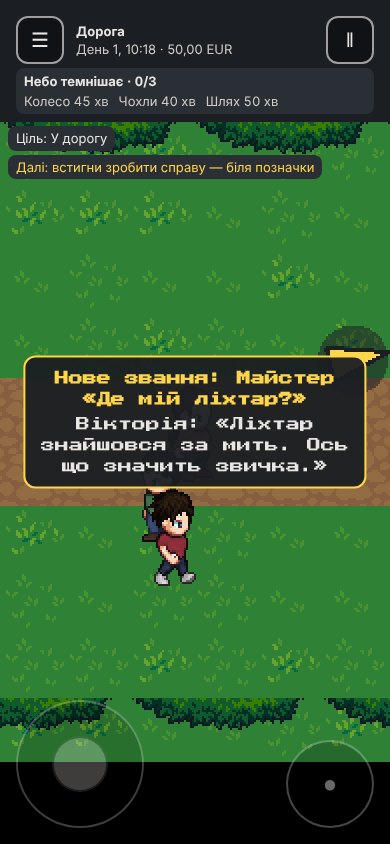
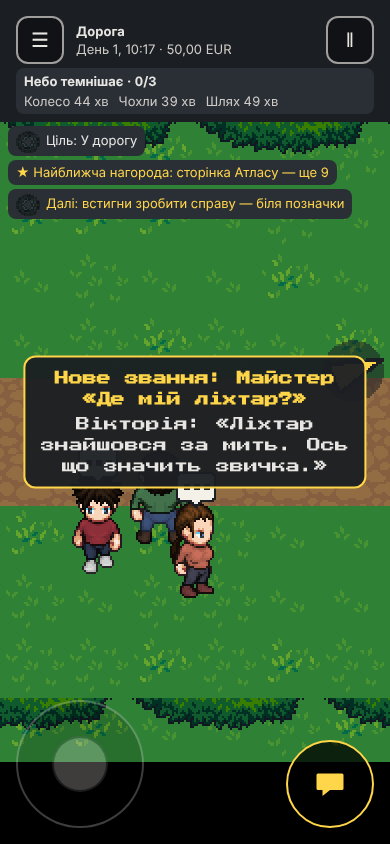
GAME-229: тести (юніт, e2e game-229), фанфара SND-025, підпис game-181 без «над героєм»
Claude-Session: https://claude.ai/code/session_01RoJJJhaZjeur2b1tUo6iMd

diff --git a/tests/e2e/game-229.spec.ts b/tests/e2e/game-229.spec.ts
@@ -1,0 +1,171 @@
+// GAME-229 · «Навички ростуть від дій». День 1 до кінця (ST-005) з дією руками на мапі: розбили ящик у таборі → практика «Майстра» → ранг 1.
+// Кінець дня: СПЕРШУ екран «Що відкрилось» (фанфара), ПОТІМ підсумок дня (категорії з'являються по одній, лічильник росте). Над героєм жодних цифр.
+// Вимкнено в налаштуваннях — екрана немає, навички ростуть так само. Обидві орієнтації (390×844, 844×390) + знімки 9:16, 1:1, 16:9 (G229_SHOTS, типово test-results/g229).
+import { mkdirSync } from 'node:fs';
+import { expect, test, type Locator, type Page } from '@playwright/test';
+import { probe, routeXY, walk } from './chapter-driver';
+import { waitGameReady } from './ready';
+import { heroLabelOk } from '../../src/view/world/hero-label';
+
+test.use({ hasTouch: true, isMobile: true });
+
+const SHOTS = process.env.G229_SHOTS ?? 'test-results/g229';
+const SETTINGS_KEY = 'camplife.settings.v1';
+const VIEWS = [{ side: 'portrait', w: 390, h: 844 }, { side: 'landscape', w: 844, h: 390 }] as const;
+const SHAPES = [{ name: '9x16', w: 390, h: 844 }, { name: '1x1', w: 600, h: 600 }, { name: '16x9', w: 844, h: 475 }] as const;
+interface Core { game: { skills: Record<string, number>; practice: Record<string, number>; campaignEnded: boolean } }
+const core = (page: Page): Promise<Core> => page.evaluate(() => (window as unknown as { __game: { read: () => Core } }).__game.read());
+const sounds = (page: Page): Promise<string[]> => page.evaluate(() => (window as unknown as { __game: { sounds: () => string[] } }).__game.sounds());
+const fx = (page: Page): Promise<{ rewardLast: string; headLabels: string[]; rewards: number }> => page.evaluate(() => JSON.parse(JSON.stringify((window as unknown as { __game: { probe: { fx: unknown } } }).__game.probe.fx)));
+const panel = (page: Page) => page.locator('[data-ui="story"]');
+const levelup = (page: Page) => page.locator('[data-ui="levelup"]');
+const summary = (page: Page) => page.locator('[data-ui="summary"]');
+const shot = async (page: Page, name: string): Promise<void> => { mkdirSync(SHOTS, { recursive: true }); await page.screenshot({ path: `${SHOTS}/${name}.png` }); };
+const press = async (page: Page, loc: Locator): Promise<void> => { await loc.scrollIntoViewIfNeeded(); await loc.tap(); await page.waitForTimeout(400); };
+
+async function open(page: Page, v: { w: number; h: number }, settings: Record<string, unknown> = {}): Promise<string[]> {
+  const errors: string[] = [];
+  page.on('pageerror', (e) => errors.push(e.message));
+  await page.addInitScript(([k, s]) => { try { localStorage.setItem(k as string, JSON.stringify({ textScale: 100, language: 'uk', hintSeen: true, ...(s as object) })); } catch { /* сховища немає */ } }, [SETTINGS_KEY, settings] as const);
+  await page.setViewportSize({ width: v.w, height: v.h });
+  await page.goto('/?seed=2&levelUps=1');   // збірка e2e: екран рангів у старих e2e вимкнено, тут — справжня поведінка
+  await waitGameReady(page);
+  return errors;
+}
+const act = async (page: Page, kind: string, key = ''): Promise<void> => {
+  const b = panel(page).locator(`[data-act="${kind}"][data-key="${key}"]`);
+  if (!(await b.isVisible({ timeout: 5_000 }).catch(() => false))) throw new Error(`крок «${kind} ${key}»: кнопки немає`);
+  await press(page, b);
+  const dlg = panel(page).locator('[data-ui="dialogue"]');
+  for (let i = 0; kind === 'visit' && key === 'loc.road' && i < 6 && await dlg.isVisible({ timeout: 400 }).catch(() => false); i++) await press(page, dlg.locator('[data-act]').last());
+};
+const at = async (page: Page): Promise<[number, number]> => { const p = await probe(page); return [p.playerX, p.playerY]; };
+async function goTo(page: Page, x: number, y: number): Promise<void> {
+  for (let i = 0; i < 5; i++) {
+    await walk(page, routeXY('camp-lake', await at(page), { x, y }));
+    await page.waitForTimeout(250);
+    const [px, py] = await at(page);
+    if (Math.hypot(px - x, py - y) < 14) return;
+  }
+}
+const hit = async (page: Page): Promise<void> => { await page.keyboard.down('KeyE'); await page.waitForTimeout(90); await page.keyboard.up('KeyE'); };
+
+/** День 1 до табору; з дією руками (розбити ящик) між приїздом і кінцем дня. Повертає до кроку перед `q.st-005`. */
+async function playToDayEnd(page: Page, withHands: boolean): Promise<void> {
+  await press(page, page.locator('[data-touch="story"]'));
+  await press(page, panel(page).locator('[data-act="create"]', { hasText: /Авто|Car/ }).first());
+  for (const [k, key] of [['complete', 'q.prologue-home-001'], ['complete', 'q.st-001'], ['complete', 'q.st-002'], ['visit', 'loc.shop'], ['pickup', 'item.tent'], ['pickup', 'item.sleeping-bag'],
+    ['complete', 'q.st-003'], ['visit', 'loc.home'], ['complete', 'q.ch1-home-001'], ['visit', 'loc.road'], ['complete', 'q.st-004'], ['visit', 'loc.camp.lake'], ['talk', 'npc.elise'],
+    ['choose', 'dlg.elise-greeting.hello.c2'], ['continue', ''], ['choose', 'dlg.elise-greeting.spot.c1'], ['continue', ''], ['pickup', 'item.firewood']] as const) await act(page, k, key);
+  if (withHands) {
+    await press(page, panel(page).locator('[data-ui="story-close"]'));
+    expect((await core(page)).game.skills['skill.mechanics'], 'до дії «Майстер» на нулі').toBe(0);
+    await goTo(page, 660, 340);   // ящик за колонкою (680, 340), як у game-228
+    await hit(page);
+    await expect.poll(async () => (await core(page)).game.practice['hand:smash'] ?? 0, { timeout: 5_000 }).toBe(1);
+    await press(page, page.locator('[data-touch="story"]'));
+  }
+}
+
+for (const v of VIEWS) {
+  test(`день з рангом: «Що відкрилось» ПЕРЕД підсумком; фанфара; підсумок розгортається; над героєм без цифр — ${v.side}`, async ({ page }) => {
+    test.setTimeout(240_000);
+    const errors = await open(page, v);
+    await playToDayEnd(page, true);
+
+    // Дія руками вчила: розбивання → «Майстер» (механіка): 12 досвіду, ранг 1 (поріг 10).
+    const c0 = await core(page);
+    expect(c0.game.skills['skill.mechanics']).toBe(12);
+    expect(c0.game.practice['hand:smash']).toBe(1);
+    // Над героєм цифр не було: усе, що намальовано, проходить правило, а нагорода справді була (інакше сторож порожній).
+    const f = await fx(page);
+    expect(f.rewardLast, 'нагорода за день була (проба)').toMatch(/^\+\d+ XP/);
+    for (const l of f.headLabels) expect(heroLabelOk(l), `підпис над героєм «${l}»`).toBe(true);
+
+    await expect(levelup(page)).toHaveCount(0);   // до кінця дня екрана нема: ранги не перебивають гру
+    await act(page, 'complete', 'q.st-005');
+
+    // 1) Спершу «Що відкрилось»; підсумку під ним ще немає.
+    await expect(levelup(page)).toBeVisible();
+    await expect(summary(page)).toHaveCount(0);
+    await expect(levelup(page).locator('h2')).toHaveText('Нові вміння');
+    await expect(levelup(page).locator('h2')).toBeFocused();
+    const items = levelup(page).locator('[data-ui="levelup-item"]');
+    const got = await items.evaluateAll((els) => els.map((e) => `${(e as HTMLElement).dataset.skill}:${(e as HTMLElement).dataset.rank}`));
+    expect(got, 'ранг від дії руками серед нових').toContain('skill.mechanics:1');
+    expect(got.length, 'і ранги від ходів ядра (табір, планування…)').toBeGreaterThan(1);
+    const mech = levelup(page).locator('[data-skill="skill.mechanics"]');
+    await expect(mech).toContainText('Механіка');
+    await expect(mech).toContainText('Той, хто бачить дрібниці');
+    await expect(mech).toContainText('Що відкрилось: Бачиш видимі несправності.');
+    expect((await levelup(page).textContent()) ?? '', 'без цифр досвіду й без ключів без тексту').not.toMatch(/XP|⟦|\+\d/);
+    expect(await sounds(page), 'фанфара через єдиний аудіомодуль').toContain('sfx-fanfare');
+    // Кнопка в межах екрана, ≥ 44 px.
+    const btn = levelup(page).locator('[data-ui="levelup-continue"]');
+    await btn.scrollIntoViewIfNeeded();
+    const r = await btn.boundingBox();
+    expect(r && r.width >= 44 && r.height >= 44 && r.x >= 0 && r.x + r.width <= v.w, `кнопка ${JSON.stringify(r)}`).toBe(true);
+    const top = (): Promise<void> => levelup(page).evaluate((el) => { el.scrollTop = 0; });
+    await top();
+    await shot(page, `levelup-${v.side}`);
+    if (v.side === 'portrait') {
+      for (const s of SHAPES) { await page.setViewportSize({ width: s.w, height: s.h }); await page.waitForTimeout(250); await top(); await shot(page, `levelup-${s.name}`); }
+      await page.setViewportSize({ width: v.w, height: v.h });
+    }
+
+    // 2) «Далі» → підсумок дня. Категорії з'являються по одній: на якомусь кадрі перша вже яскравіша за останню, зрештою — всі повні.
+    await press(page, btn);
+    await expect(levelup(page)).toHaveCount(0);
+    const opac = (): Promise<number[]> => summary(page).locator('.ui-summary-sec').evaluateAll((els) => els.map((e) => Number(getComputedStyle(e).opacity)));
+    let staggered = false;
+    for (let i = 0; i < 40 && !staggered; i++) { const o = await opac(); staggered = o.length > 3 && (o[0] as number) > (o[o.length - 1] as number); if (!staggered) await page.waitForTimeout(25); }
+    await expect(summary(page)).toBeVisible();
+    await expect(summary(page).locator('h2')).toHaveText('Підсумок дня 1');
+    expect(staggered, 'категорії розгортаються по одній (перша раніше за останню)').toBe(true);
+    // Лічильник нагороди росте (від 0 до кінцевого) і не спадає; текст у DOM — кінцевий одразу.
+    const xp = Number(await summary(page).locator('[data-ui="summary-reward"]').getAttribute('data-xp'));
+    expect(xp).toBeGreaterThan(0);
+    await expect(summary(page).locator('[data-ui="count-xp"]')).toHaveText(String(xp));
+    const tick = (): Promise<number> => summary(page).locator('[data-ui="count-xp"]').evaluate((el) => Number(getComputedStyle(el, '::after').getPropertyValue('--n')));
+    const seen: number[] = [];
+    for (let i = 0; i < 60; i++) { seen.push(await tick()); if (seen[seen.length - 1] === xp) break; await page.waitForTimeout(30); }
+    expect(seen[seen.length - 1], 'лічильник дійшов до кінцевого числа').toBe(xp);
+    for (let i = 1; i < seen.length; i++) expect(seen[i] as number, `лічильник не спадає ${seen}`).toBeGreaterThanOrEqual(seen[i - 1] as number);
+    await expect.poll(async () => (await opac()).every((o) => o === 1), { timeout: 8_000 }).toBe(true);
+    await shot(page, `summary-${v.side}`);
+    if (v.side === 'portrait') {
+      for (const s of SHAPES) { await page.setViewportSize({ width: s.w, height: s.h }); await page.waitForTimeout(250); await shot(page, `summary-${s.name}`); }
+    }
+    await press(page, summary(page).locator('[data-ui="summary-continue"]'));
+    await expect(summary(page)).toHaveCount(0);
+    // Ранги прочитано — вдруге той самий день їх не показує.
+    expect(await levelup(page).count()).toBe(0);
+    expect(errors, errors.join('\n')).toEqual([]);
+  });
+}
+
+test('вимкнено в налаштуваннях: екрана «Що відкрилось» немає, підсумок одразу, а навички ростуть так само — landscape', async ({ page }) => {
+  test.setTimeout(240_000);
+  const errors = await open(page, { w: 844, h: 390 }, { levelUps: false });
+  await playToDayEnd(page, true);
+  await act(page, 'complete', 'q.st-005');
+  await expect(summary(page)).toBeVisible();
+  await expect(levelup(page)).toHaveCount(0);
+  const c = await core(page);
+  expect(c.game.skills['skill.mechanics'], 'навичка росте й без екрана').toBe(12);
+  expect(c.game.skills['skill.camping'], 'і ходи ядра теж').toBeGreaterThanOrEqual(10);
+  expect(errors, errors.join('\n')).toEqual([]);
+});
+
+test('налаштування в паузі: перемикач «Нові ранги» зберігається — portrait', async ({ page }) => {
+  const errors = await open(page, { w: 390, h: 844 });
+  await page.locator('[data-touch="pause"]').tap();
+  await expect(page.locator('[data-ui="pause"]')).toBeVisible();
+  const off = page.locator('[data-ui="levelups-off"]');
+  await expect(page.locator('[data-ui="levelups-on"]')).toHaveAttribute('aria-pressed', 'true');
+  await off.scrollIntoViewIfNeeded();
+  await off.tap();
+  await expect(off).toHaveAttribute('aria-pressed', 'true');
+  expect(JSON.parse(await page.evaluate((k) => localStorage.getItem(k) ?? '{}', SETTINGS_KEY)).levelUps).toBe(false);
+  expect(errors).toEqual([]);
+});

diff --git a/tests/e2e/game-181.spec.ts b/tests/e2e/game-181.spec.ts
@@ -7,7 +7,7 @@ import { waitGameReady } from './ready';
 
 interface Progress { xp: number; om: number; keys: string[] }
 interface Core { clock: { minutes: number }; game: { player: { locationId: string } | null; flags: string[]; quests: Record<string, { status: string }>; inventory: Record<string, number>; progress?: Progress } }
-interface Fx { target: string | null; ring: number; backpack: number; pops: number; auto: number; rewards: number; rewardLast: string }
+interface Fx { target: string | null; ring: number; backpack: number; pops: number; auto: number; rewards: number; rewardLast: string; headLabels: string[] }
 interface Probe { playerX: number; playerY: number; clockMinutes: number; fx: Fx; saveLoaded: boolean }
 const core = (page: Page): Promise<Core> => page.evaluate(() => (window as unknown as { __game: { read: () => Core } }).__game.read());
 const probe = (page: Page): Promise<Probe> => page.evaluate(() => JSON.parse(JSON.stringify((window as unknown as { __game: { probe: Probe } }).__game.probe)) as Probe);
@@ -180,7 +180,7 @@ test('мутація: ?hideUi=goal — цілі на екрані немає (п
 });
 
 for (const v of VIEWS) {
-  test(`перше нове звання — ходьбою: «+N» над героєм, банер, звук, час до нього; після перезавантаження банера нема — ${v.name}`, async ({ browser }) => {
+  test(`перше нове звання — ходьбою: нагорода є (над героєм цифр нема — GAME-229), банер, звук, час до нього; після перезавантаження банера нема — ${v.name}`, async ({ browser }) => {
     test.setTimeout(540_000);
     const ctx = await browser.newContext({ viewport: { width: v.w, height: v.h }, hasTouch: true, isMobile: true });
     const page = await ctx.newPage();
@@ -216,11 +216,12 @@ for (const v of VIEWS) {
     const br = await rect(banner);
     expect(br && br.l >= 0 && br.r <= v.w && br.t >= 0 && br.b <= v.h, `банер у межах екрана ${JSON.stringify(br)}`).toBe(true);
     expect(await banner.evaluate((el) => getComputedStyle(el).pointerEvents)).toBe('none');
-    // Звук: через єдиний мікшер (ключ ui-confirmation); «+N» — сплив над героєм (лічильник проби).
+    // Звук: через єдиний мікшер (ключ ui-confirmation). GAME-229: «+N XP» над героєм більше не малюється — лише подія нагороди в пробі (rewards/rewardLast), число видно в підсумку дня й у ☰.
     expect(await sounds(page)).toContain('ui-confirmation');
     const p = await probe(page);
-    expect(p.fx.rewards, 'спливів нагороди').toBeGreaterThanOrEqual(1);
-    expect(seenPop, 'підпис спливу: «+N XP»').toMatch(/^\+\d+ XP/);
+    expect(p.fx.rewards, 'подій нагороди').toBeGreaterThanOrEqual(1);
+    expect(seenPop, 'підпис нагороди в пробі: «+N XP»').toMatch(/^\+\d+ XP/);
+    expect(p.fx.headLabels.filter((l) => /\d|XP|ОМ/.test(l)), 'над героєм ні цифр, ні нагород (GAME-229)').toEqual([]);
     await page.locator('[data-ui="recovery-close"]').click({ timeout: 800 }).catch(() => undefined);   // нагадування про код відновлення не закриває банер на знімку
     await page.screenshot({ path: shot(v.side, 'titleup') });
     // Міряємо живий час ходьби скриптом (стіна годинника, що тече лише коли гра на мапі) і число дій гравця. Ігровий годинник (clockMin) тут НЕ міра: дорога (Visit) перемотує його на хвилини маршруту.

diff --git a/src/ui/overlay-order.test.ts b/src/ui/overlay-order.test.ts
@@ -1,0 +1,41 @@
+// GAME-229 · порядок екранів кінця дня і вимикач «Що відкрилось». Закон 1: мутації — у PR (summary раніше за ранги → червоне; вимикач проігноровано → червоне).
+import { describe, expect, it } from 'vitest';
+import { queueUps, topOverlay, type SkillUp } from './overlay-order';
+
+const UP: SkillUp = { skill: 'skill.camping', rank: 1 };
+
+describe('порядок: картка розділу → «Що відкрилось» → підсумок', () => {
+  it('є і ранги, і підсумок — спершу ранги', () => {
+    expect(topOverlay({ episode: false, ups: 2, summary: true })).toBe('levelup');
+  });
+  it('ранги прочитано (черга порожня) — підсумок', () => {
+    expect(topOverlay({ episode: false, ups: 0, summary: true })).toBe('summary');
+  });
+  it('картка розділу — над усім; після неї — ранги, потім підсумок', () => {
+    expect(topOverlay({ episode: true, ups: 1, summary: true })).toBe('episode');
+    expect(topOverlay({ episode: false, ups: 1, summary: true })).toBe('levelup');
+  });
+  it('день не скінчився (підсумку немає) — ранги чекають, гру не перебивають', () => {
+    expect(topOverlay({ episode: false, ups: 3, summary: false })).toBeNull();
+  });
+  it('повний ланцюжок: на кожному кроці рівно один екран і підсумок — останній', () => {
+    const seq: (string | null)[] = [];
+    let f = { episode: true, ups: 2, summary: true };
+    seq.push(topOverlay(f));
+    f = { ...f, episode: false }; seq.push(topOverlay(f));
+    f = { ...f, ups: 0 }; seq.push(topOverlay(f));
+    f = { ...f, summary: false }; seq.push(topOverlay(f));
+    expect(seq).toEqual(['episode', 'levelup', 'summary', null]);
+  });
+});
+
+describe('вимикач екрана рангів', () => {
+  it('увімкнено — ранги йдуть у чергу як є', () => {
+    expect(queueUps(true, [UP])).toEqual([UP]);
+  });
+  it('вимкнено — черга порожня, тож зверху одразу підсумок: екрана рангів немає', () => {
+    const q = queueUps(false, [UP, { skill: 'skill.mechanics', rank: 2 }]);
+    expect(q).toEqual([]);
+    expect(topOverlay({ episode: false, ups: q.length, summary: true })).toBe('summary');
+  });
+});

diff --git a/src/ui/summary-reveal.test.ts b/src/ui/summary-reveal.test.ts
@@ -1,0 +1,38 @@
+// GAME-229 · підсумок дня: затримки появи категорій і лічильник — без таймерів у коді (механізм — CSS, як у картці розділу).
+import { describe, expect, it } from 'vitest';
+import { COUNT_MS, REVEAL_STEP_MS, countStyle, revealDelay } from './summary-reveal';
+import daySummary from './DaySummary.tsx?raw';
+import css from '../../index.html?raw';
+
+describe('категорії розгортаються по одній', () => {
+  it('перша — одразу, далі кожна пізніше за попередню рівно на крок', () => {
+    expect(revealDelay(0)).toBe(0);
+    const d = Array.from({ length: 8 }, (_, i) => revealDelay(i));
+    for (let i = 1; i < d.length; i++) expect((d[i] as number) - (d[i - 1] as number)).toBe(REVEAL_STEP_MS);
+  });
+  it('від’ємний індекс не дає від’ємної затримки', () => {
+    expect(revealDelay(-3)).toBe(0);
+  });
+  it('екран ставить затримку КОЖНІЙ категорії (зростаючу), а не лише першій', () => {
+    const delays = [...daySummary.matchAll(/style=\{at\((\d[^)]*)\)\}/g)].map((m) => m[1]);
+    expect(delays.length).toBeGreaterThanOrEqual(6);   // нагорода, далі, завтра, секції, гроші, безпека
+    expect(delays.slice(0, 3)).toEqual(['0', '1', '2']);
+  });
+});
+
+describe('лічильник прокручується', () => {
+  it('кінцеве число — у --to (ціле, ≥ 0), тривалість стала', () => {
+    expect(countStyle(45)).toEqual({ '--to': 45, '--count-ms': `${COUNT_MS}ms` });
+    expect(countStyle(-5)['--to']).toBe(0);
+    expect(countStyle(7.9)['--to']).toBe(7);
+  });
+  it('CSS: @property --n ціле, анімація від 0 до --to, а «менше руху» її скорочує до нуля', () => {
+    expect(css).toMatch(/@property --n \{ syntax: '<integer>'/);
+    expect(css).toMatch(/@keyframes ui-tick \{ from \{ --n: 0; \} to \{ --n: var\(--to, 0\); \} \}/);
+    const reduce = css.slice(css.indexOf('@media (prefers-reduced-motion: reduce)', css.indexOf('GAME-39 #3')));
+    expect(reduce).toMatch(/animation-duration: 0s !important/);
+  });
+  it('справжнє число лишається в DOM для читача (ui-sr-only), не лише в ::after', () => {
+    expect(daySummary).toMatch(/class="ui-sr-only">\{summary\.reward\.xp\}/);
+  });
+});

diff --git a/src/view/world/hero-label.test.ts b/src/view/world/hero-label.test.ts
@@ -1,0 +1,29 @@
+// GAME-229 · сторож «над героєм немає цифр». Закон 1: мутація — повернути `fx.pop(reward)` у scene.ts (червоне тут і в e2e game-229).
+import { describe, expect, it } from 'vitest';
+import { heroLabelOk } from './hero-label';
+import scene from './scene.ts?raw';
+import rig from './camp-alive-rig.ts?raw';
+
+describe('heroLabelOk', () => {
+  it('над героєм: «+», «OK», «!», слова — можна', () => {
+    for (const ok of ['+', 'OK', '!', 'Ой!', 'Привіт']) expect(heroLabelOk(ok), ok).toBe(true);
+  });
+  it('цифри й слова нагороди — ні: «+1», «+15 XP +10 ОМ», «+XP», «+ОМ»', () => {
+    for (const bad of ['+1', '+15 XP +10 ОМ', '+XP', '+ ОМ', '12', '+1 Шишка', 'xp']) expect(heroLabelOk(bad), bad).toBe(false);
+  });
+});
+
+describe('джерело: сцена не малює нагороду й цифри над героєм', () => {
+  const popCalls = (src: string): string[] => src.split('\n').filter((l) => /\bfx\??\.pop\(/.test(l) && !l.trim().startsWith('//'));
+  it('жоден виклик fx.pop у scene.ts не несе змінну нагороди', () => {
+    for (const l of popCalls(scene)) expect(l, l).not.toMatch(/reward/i);
+  });
+  it('усі рядкові літерали в fx.pop у scene.ts — дозволені підписи', () => {
+    const lits = popCalls(scene).flatMap((l) => [...l.matchAll(/'([^']*)'/g)].map((m) => m[1] as string));
+    expect(lits.length).toBeGreaterThan(0);
+    for (const s of lits) expect(heroLabelOk(s), s).toBe(true);
+  });
+  it('камп-розваги більше не мають зворотного виклику «спливу над героєм» (шишки й ягоди — плашка в куті)', () => {
+    expect(rig).not.toMatch(/this\.pop\(/);
+  });
+});
